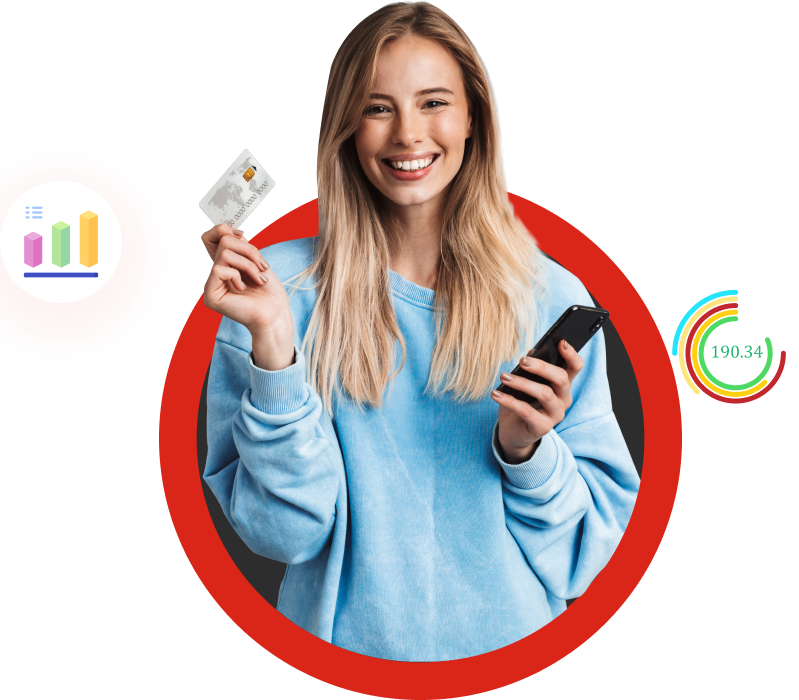
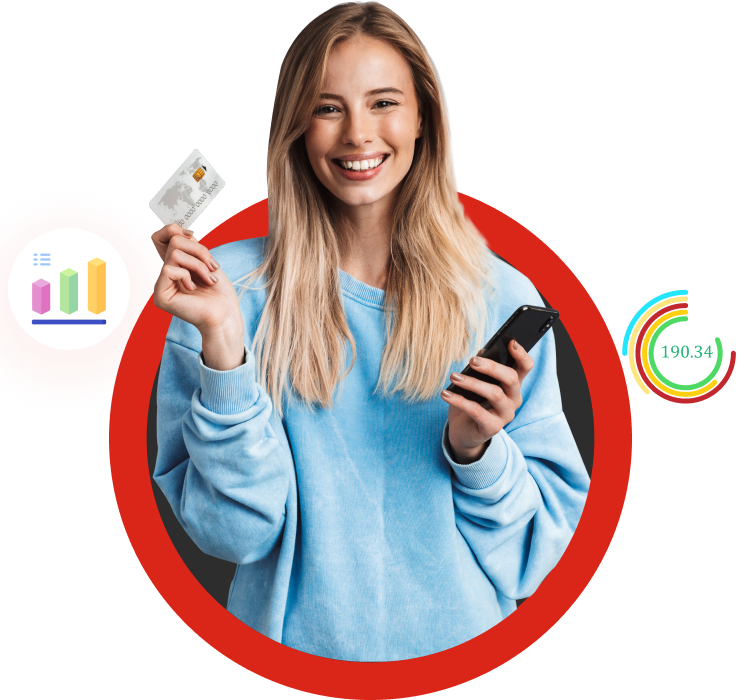
Improved hero section styling.

diff --git a/figma_v1/src/sass/components/home/_hero.sass b/figma_v1/src/sass/components/home/_hero.sass
@@ -5,14 +5,10 @@
         @include mixins.content-wrapper        
         height: calc(100vh - 76px)
         position: relative
-        text-align: center
         display: flex
 
-        > div
-            flex-basis: 50%
-
     &__header
-        font-size: 3rem
+        font-size: 2.5rem
 
         &--red
             color: var(--main-red)
@@ -23,15 +19,23 @@
     &__description
         margin-bottom: 2em
 
-    &__right-column
+    &__column
         position: relative
+        text-align: center
+        flex-basis: 50%
 
-    &__girl-image-wrapper
-        width: 80% 
+    &__column-content
+        width: 100%
         position: absolute
         top: 50%
         left: 50%
         transform: translate(-50%, -50%)
+
+    &__girl-image-wrapper
+        width: 80%
+
+    &__text-wrapper
+        top: 40%
 
     &__girl-image
         display: block
@@ -39,7 +43,7 @@
     
     &__video-player-button
         position: absolute
-        bottom: 100px
+        bottom: 40px
         width: 150px
         right: 20px
         background-color: #000
@@ -53,18 +57,6 @@
     &__play-icon
         font-size: .8rem
         margin-right: 1em
-
-
-    &__left-column
-        position: relative
-
-    &__left-column-content
-        width: 100%
-        position: absolute
-        top: 40%
-        left: 50%
-        transform: translate(-50%, -50%)
-
 
     &__bottom-images-wrapper
         position: absolute
@@ -81,6 +73,12 @@
 
         img
             display: block
+            flex-basis: 50%
+            object-fit: cover
+       
 
     &__bull-image
-        width: 400px
+        width: 300px
+
+    &__bear-image
+        width: 200px

diff --git a/figma_v1/index.html b/figma_v1/index.html
@@ -53,8 +53,8 @@
     <!-- home page content -->
     <div class="hero">
       <div class="hero__content-wrapper">
-        <div class="hero__left-column">
-          <div class="hero__left-column-content">
+        <div class="hero__column">
+          <div class="hero__column-content hero__text-wrapper">
             <h1 class="hero__header">Mirror professional</h1>
             <h1 class="hero__header hero__header--red hero__header--mb">
               Traders
@@ -71,8 +71,8 @@
             </button>
           </div>
         </div>
-        <div class="hero__right-column">
-          <div class="hero__girl-image-wrapper">
+        <div class="hero__column">
+          <div class="hero__column-content hero__girl-image-wrapper">
             <img
               src="src/images/home/girl.png"
               alt="girl holding phone and credit card."
@@ -84,7 +84,13 @@
           </div>
         </div>
         <div class="hero__bottom-images-wrapper">
-          <div><img src="src/images/home/bear.png" alt="bear image" /></div>
+          <div>
+            <img
+              src="src/images/home/bear.png"
+              alt="bear image"
+              class="hero__bear-image"
+            />
+          </div>
           <div>
             <img
               class="hero__bull-image"

diff --git a/figma_v1/src/sass/components/common/_button.sass b/figma_v1/src/sass/components/common/_button.sass
@@ -5,7 +5,6 @@
     color: white
     font-weight: 500
     cursor: pointer
-    font-size: 1rem
     width: 100%
     padding: .8em 1em
     border-radius: 4px
